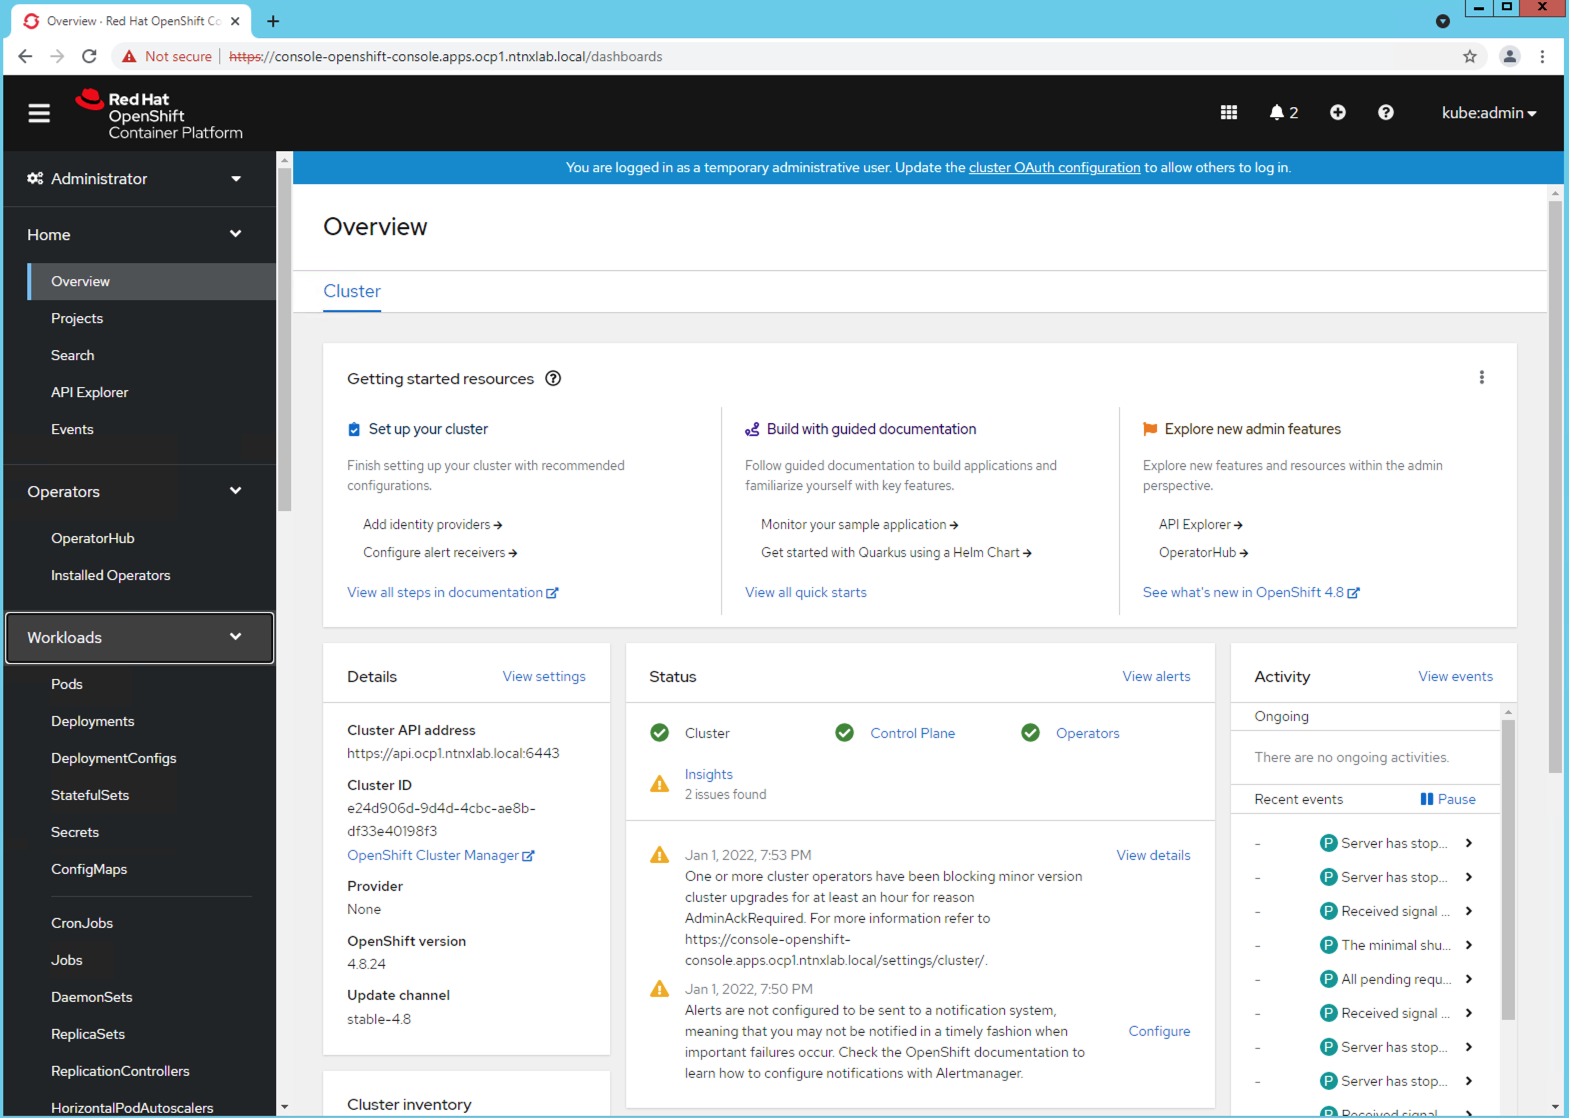
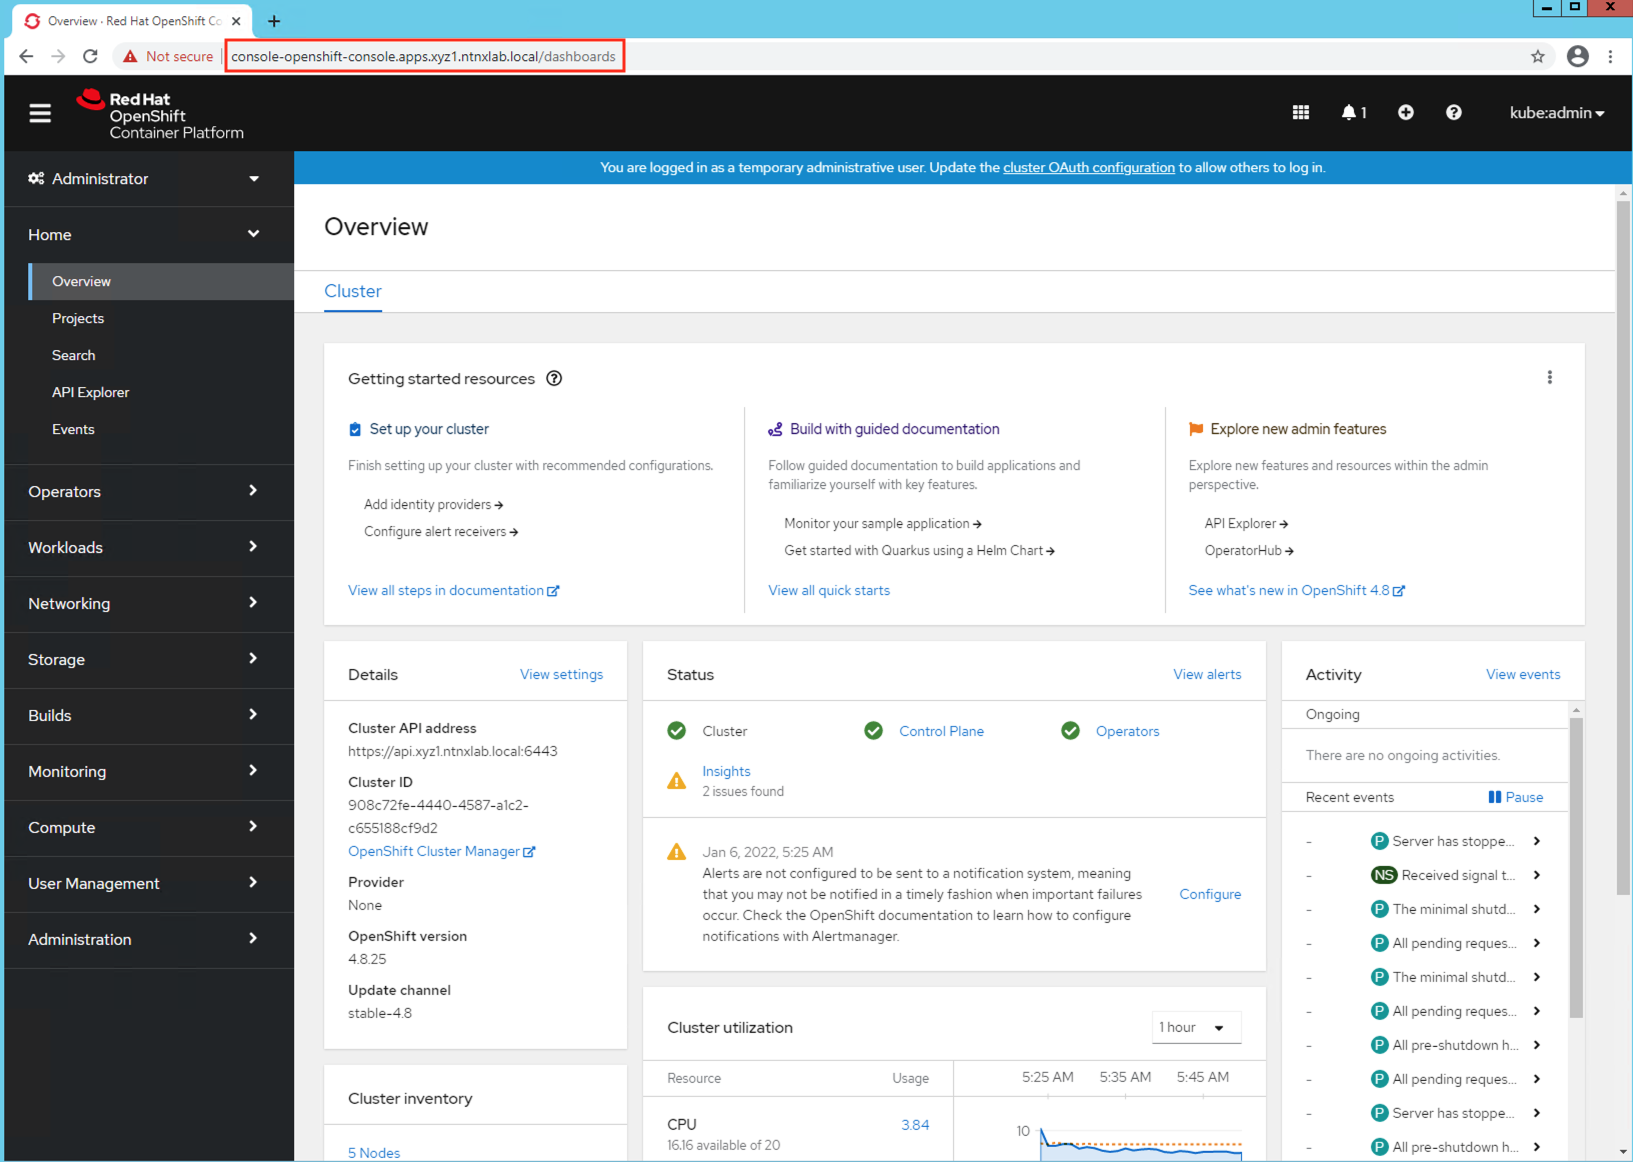
Thu Jan  6 22:53:33 JST 2022

diff --git a/ocp_vms/ocp_vms.rst b/ocp_vms/ocp_vms.rst
@@ -8,8 +8,8 @@ In this section we will deploy a OCP cluster using Nutanix Calm.
 
 As discussed in the previous section about the Calm blueprints, 
 
-1. Blueprint 1 - provisions a OCP provisioning VM with Calm action to deploy OCP
-2. Blueprint 2 - is called by a Calm action in ``Blueprint 1`` with all the necessary information that ``Blueprint 2`` needs to run
+1. Blueprint 1 (XYZ_OCP_Prov_VM) - provisions a OCP provisioning VM with Calm action to deploy OCP
+2. Blueprint 2 (XYZ_OCP_Master_Worker) - is called by a Calm action in ``Blueprint 1`` with all the necessary information that ``Blueprint 2`` needs to run
 
 Since we sucessfully setup OCP provisioning VM, we have to do the following to proceed:
 
@@ -58,7 +58,7 @@ Now we will check if OCP DNS endpoints are configured for the services.
 
    .. figure:: images/ocp_service_ep_confirm.png
    
-#. Confirm that the enpoint is the **OCP DNS Integration** that you previously configured in :ref:`endpoint` section
+#. Confirm that the endpoint is the **OCP DNS Integration** that you previously configured in :ref:`endpoint` section
 
 #. Confirm  the **OCP DNS Integration**  for **Delete DNS Entry** task
 
@@ -94,27 +94,35 @@ Deploying OCP Cluster
 
 #. Fill only the following details:
    
-   - **HPOC_USER_INITIALS** - XYZ
    - **Number of Workers** - 2
    - **OCP_PULL_SECRET** - download/copy pull secret this from your Red Hat Portal `Login <https://console.redhat.com/openshift/install/pull-secret>`_ (you will need Red Hat Portal Access)
+   - **OCP_SUBDOMAIN** - Initials1 (e.g. xyz1) 
    - **OCP_MACHINE_NETWORK** - provide your Primary network address for your HPOC/SPOC (e.g. 10.38.2.64/26 ) - check in your cluster reservation email/webpage
-   - **OCP_BP** - OCP_Master_Worker (modify this if you have used a different blueprint name)
+   - **OCP_BP** - XYZ_OCP_Master_Worker
 
-#. Click on **Run**
+   .. note::
+
+    Make sure that the **OCP_SUBDOMAIN** name is be unique for each OCP cluster you deploy with this blueprint. A DNS zone is created based on this subdomain name. 
+
+    You can observe this in DNS in your AutoAD VM once a OCP cluster deployed.
+
+    .. figure:: images/ocp_xyz1_cluster_dns.png
 
    .. figure:: images/ocp_deploy_task_runtime_variables.png
+
+#. Click on **Run**
 
 #. Go to the **Audit** tab to check the stautus of the launched **Deploy OCP** action
 
    .. figure:: images/ocp_deploy_audit.png
 
-#. If this action launch is succesful, you will see another application **Openshift ocp1 XYZ** in the **Calm** > **Applications** in a **Provisioning** state
+#. If this action launch is succesful, you will see another application **Openshift xyz1** in the **Calm** > **Applications** in a **Provisioning** state (this might take up to 5 minutes to show up in the Web UI)
  
    .. figure:: images/ocp_app_provisioning.png
 
-#. Click on the **Openshift ocp1 XYZ** application and go to **Audit** tab
+#. Click on the **Openshift xyz1** application and go to **Audit** tab
 
-#. Observe the vm create, package and other Calm actions 
+#. Observe the VM create, package install and other Calm actions 
 
 #. This should take about 20-25 minutes
 
@@ -124,9 +132,9 @@ Deploying OCP Cluster
 
    .. figure:: images/ocp_prov_vm_audit.png
 
-Now that your OCP cluster has been deployed, in the **Services** tab, lets check the VMs (Services in Calm) and their corresponding functions.
+Now that your OCP cluster has been deployed, in the **Services** tab, lets explore the VMs (Services in Calm) and their corresponding functions.
 
-Click on each VM (Service) will display IP addresses and Open Terminal options. We will be using the private key to ssh into these VMs (if required)
+Click on each VM (Service) will display IP addresses and **Open Terminal** options. We will be using the private key to ssh into these VMs (if required)
 
 .. figure:: images/ocp_deployed_vms.png
 

diff --git a/ocp_scale_out_in/ocp_scale_out_in.rst b/ocp_scale_out_in/ocp_scale_out_in.rst
@@ -8,18 +8,19 @@ In this section we will look at Typical Day 1 operations of your OCP cluster in 
 
 For the purposes of the lab, we will achieve scale in/out operations by triggering a Calm Action manually. These Calm Actions can also be triggered using REST calls from an automation script. 
 
-.. _ocp_cluster_login:
 
 .. raw:: html
   
   <strong><font color="red">This section can only be attempted if the previous sections are completed successfully</font></strong>
+
+.. _ocp_cluster_login:
 
 Day 0: Getting OCP Cluster Login Details 
 ++++++++++++++++++++++++++++++++++++++++
 
 #. In **Calm** > **Applications**
 
-#. Click on the **Openshift ocp1 XYZ** application and go to **Audit** tab
+#. Click on the **Openshift xyz1** application and go to **Audit** tab
 
 #. Go to the end of the audit trail and look for **OS_Status_Check Start** task and expand 
 
@@ -51,18 +52,20 @@ If you don't have a Windows Tools VM in your HPOC. Use these instructions here i
 
 .. note:: 
  
-  DNS lookup will not work from anywhere else except the Windows Tools VM. So please use this VM to do the rest of this lab.
+  DNS lookup will not work from anywhere else except the Windows Tools VM within your HPOC/SPOC cluster as it is connected to the AutoAD server which also is a DNS server.
+  
+  Only use this Windows Tools VM to access the ocp cluster manager web UI.
 
 #. Login to you Windows Tools VM using the following credentials;
 
    - **Username** - administrator@ntnxlab.local
    - **Password** - nutanix/4u
 
-#. Using Chrome browser browse to Console URL you obtained in the previous section. 
+#. Using Chrome browser browse to Console URL you obtained in the previous section. Note that this URL will be different for each cluster that you deploy.
 
    .. code-block:: url
    
-    https://console-openshift-console.apps.ocp1.ntnxlab.local
+    https://console-openshift-console.apps.xyz1.ntnxlab.local
 
 #. Use your credentials to Login
    
@@ -77,7 +80,7 @@ If you don't have a Windows Tools VM in your HPOC. Use these instructions here i
 
    .. note::
 
-    To be able to manage other clusters, you will need to register this cluster to ``https://console.redhat.com/openshift/`` web interface
+    To be able to manage other clusters or a group of clusters, you will need to register this cluster to ``https://console.redhat.com/openshift/`` web interface
 
    .. figure:: images/ocp_overview.png
 
